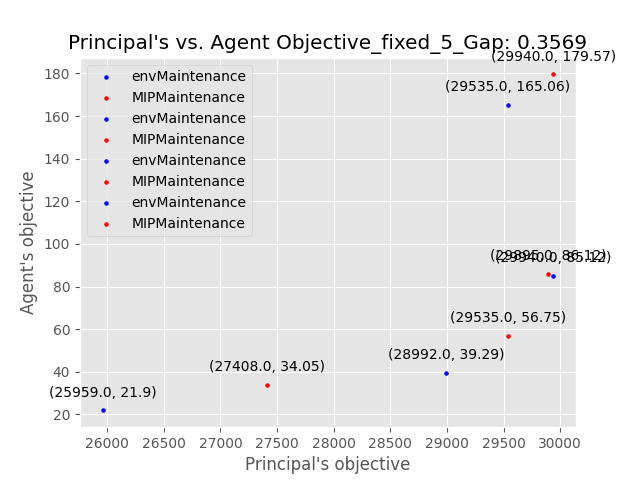
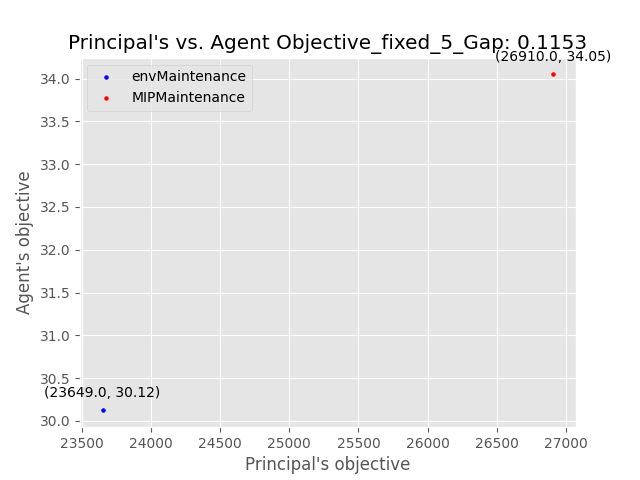
Adición de gráficos de pruebas

diff --git a/src/env/RL/PPP_Env_V3.py b/src/env/RL/PPP_Env_V3.py
@@ -584,7 +584,7 @@ def comparison(policy, inspections, maintenances):
 # ----------------------- DECLARING, INITIALIZING AND RUNNING THE ENVIRONMENT -----------------------
 
 # Policies to evaluate:
-policies = ['fixed_1', 'fixed_2', 'fixed_3', 'fixed_5']
+policies = ['fixed_3']
             #'reach_99', 'reach_70', 'reach_50', 'reach_30', 'reach_10',
             #'random_80', 'random_60', 'random_50', 'random_25']
 
@@ -602,7 +602,7 @@ for policy in policies:
     new_q_table = myPPP.q_table
 
     # Number of simulations to be run. The self.T will be ran the times in the parameter
-    num_simulations = int(5e4)
+    num_simulations = int(5e5)
 
     for i in range(num_simulations):
         state = myPPP.reset()
